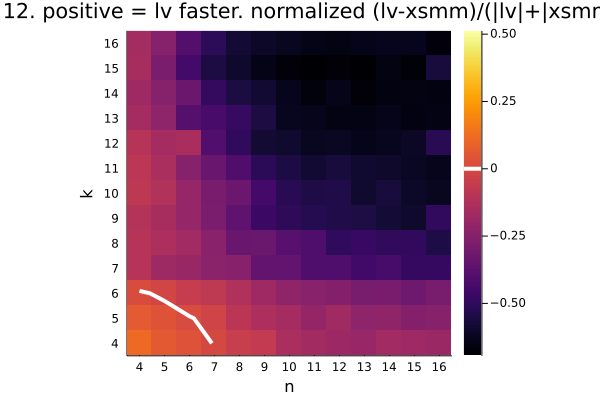
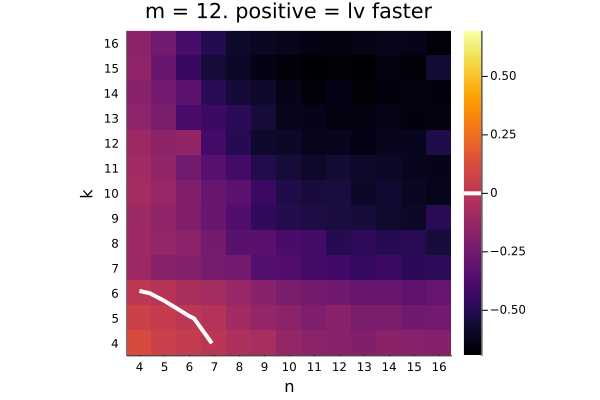
.

diff --git a/readme.md b/readme.md
@@ -8,6 +8,8 @@ cd smm-bench
 make AVX=1 -j
 ```
 
+color scale is (xsmm - lv) / (|xsmm| + |lv|)
+
 ![plot_4.png](plot_4.png)
 
 ![plot_5.png](plot_5.png)
